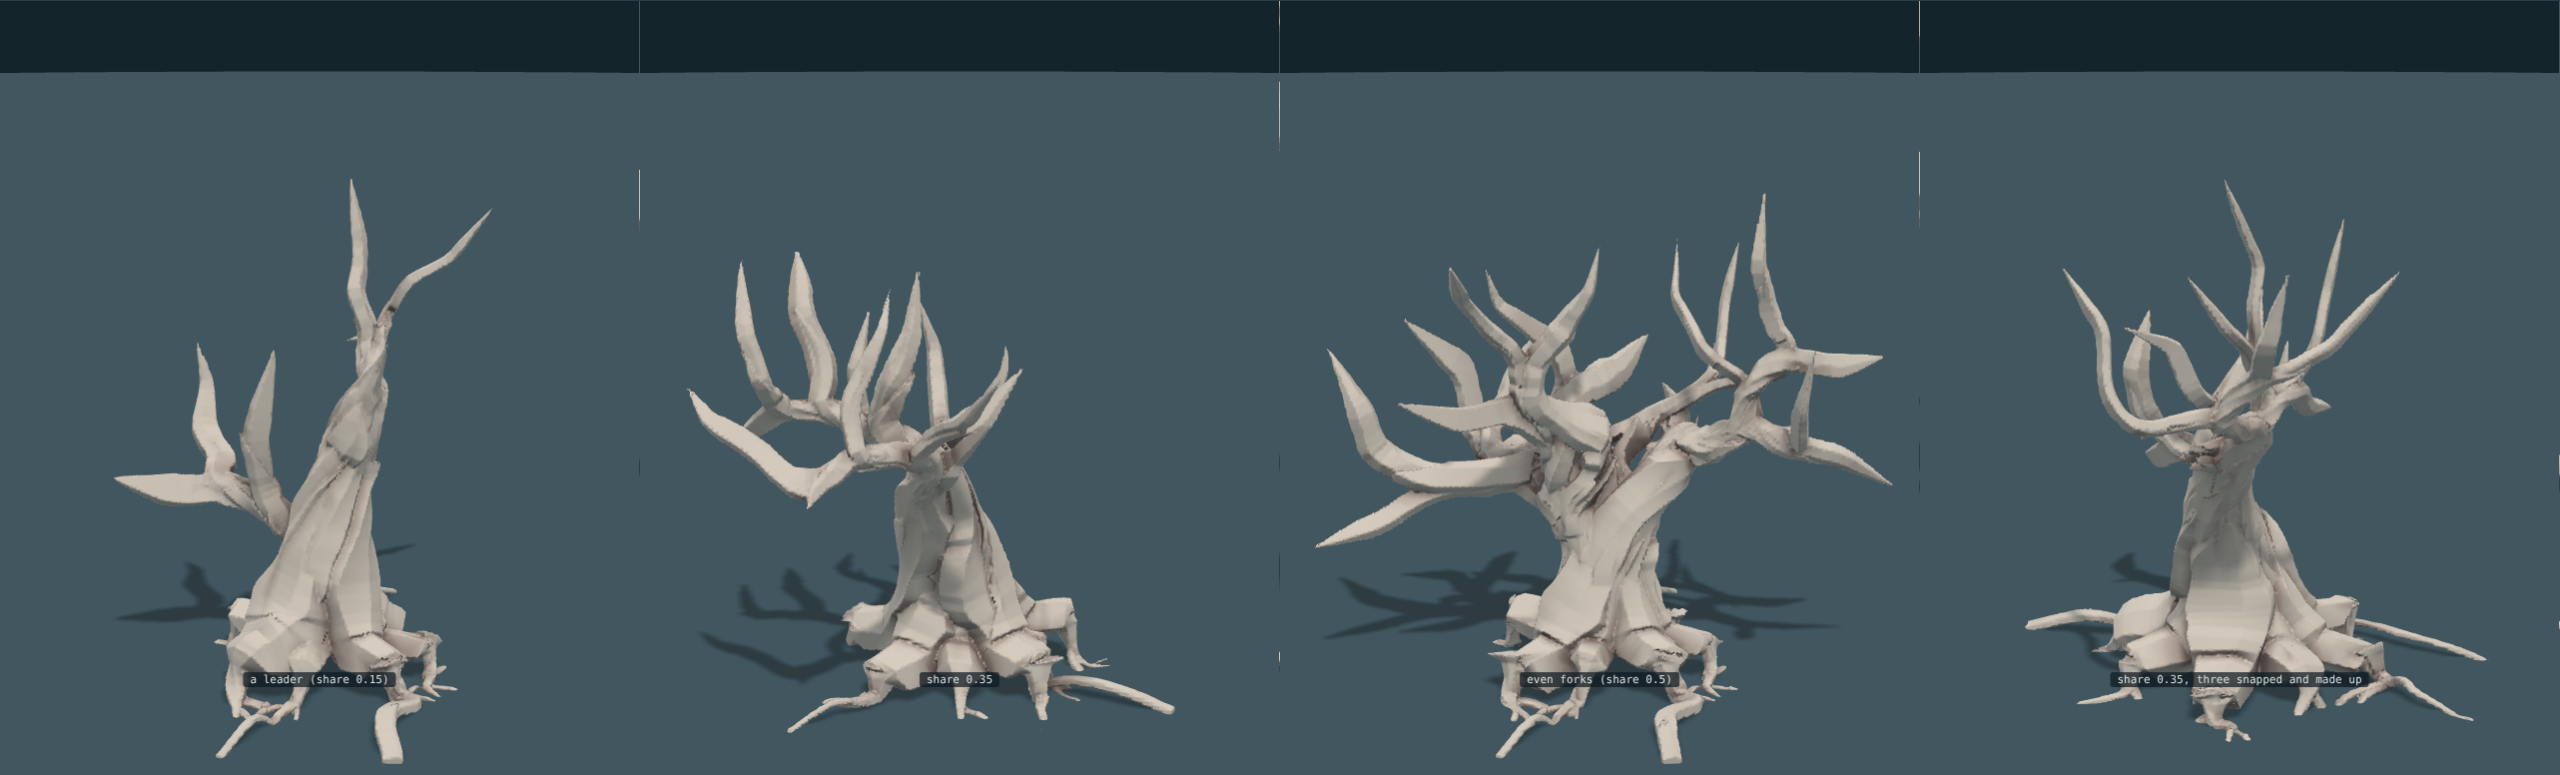
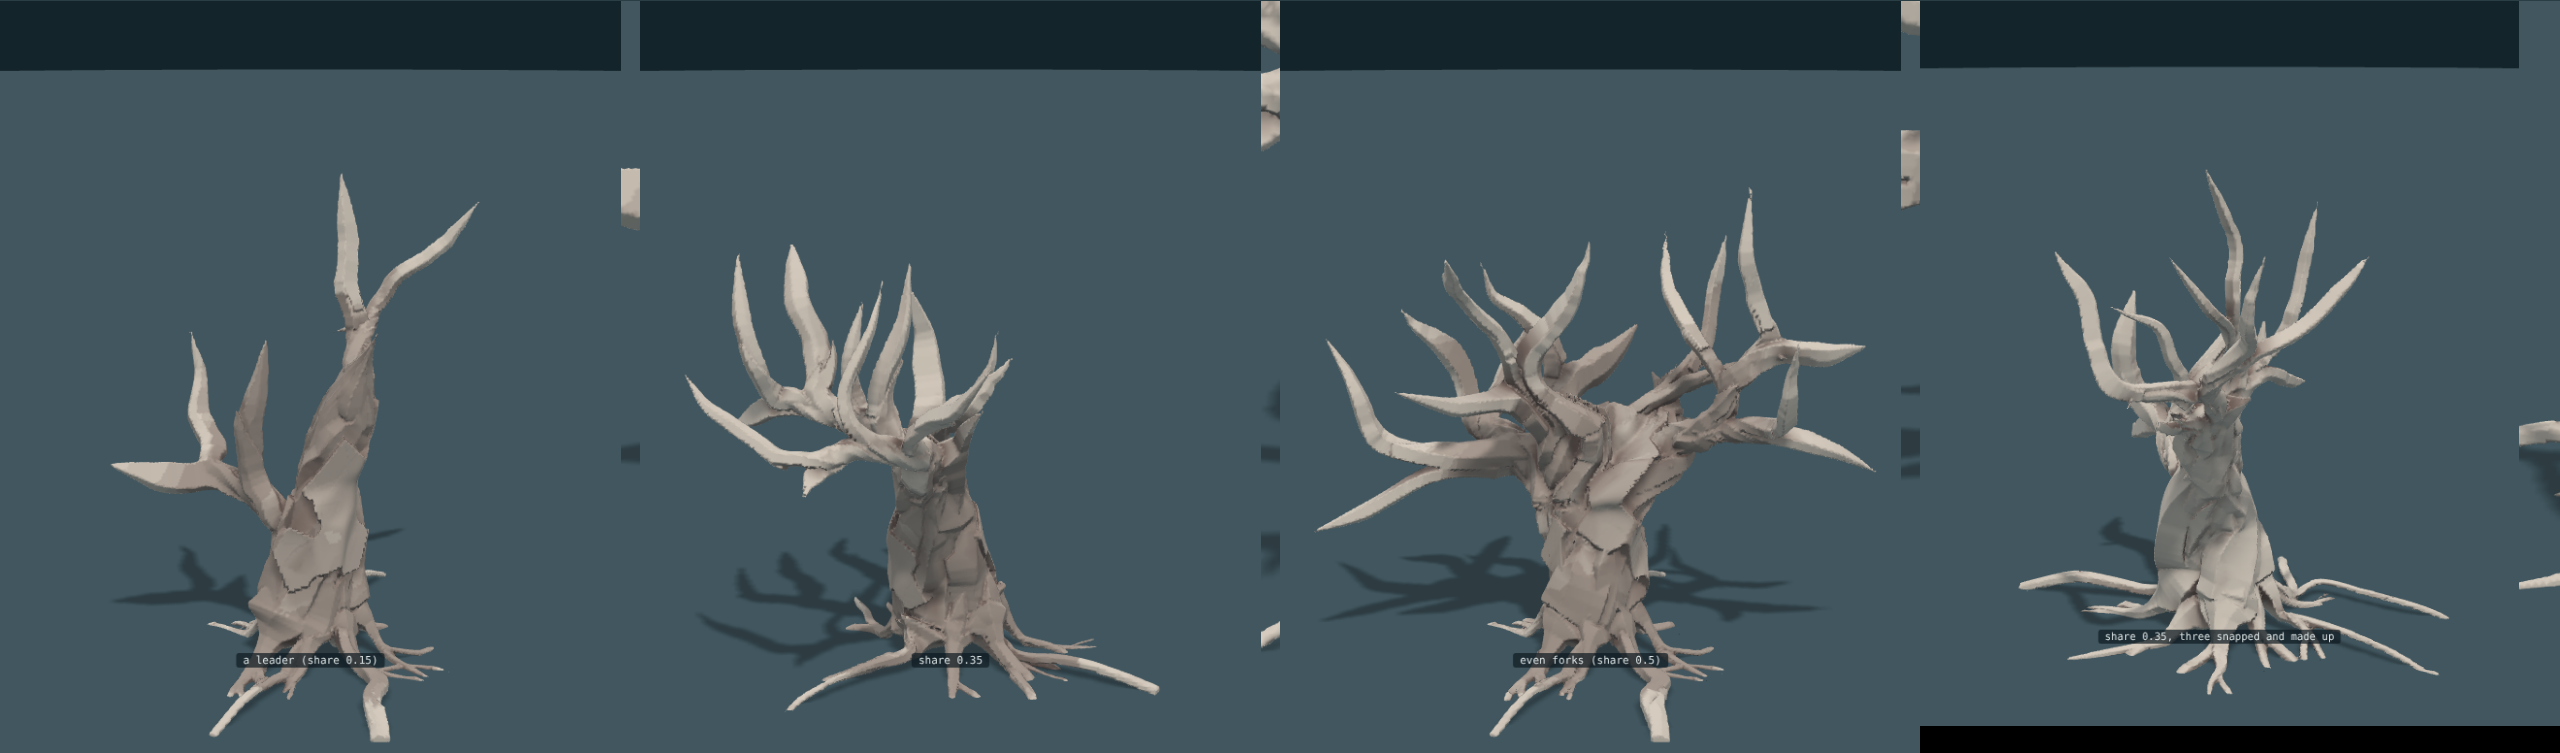
Colour the roots: the thick slabs at the foot were a torn root/trunk join, not roots. Hold a strand's shape in one frame all along it
Claude-Session: https://claude.ai/code/session_0192rgp75jGkttZXf7hEakip

diff --git a/trees.js b/trees.js
@@ -131,7 +131,14 @@
           q = [q[0] + dir[0] * ds, p0[1] + (rad * 0.6 - p0[1]) * sstep(0, 0.8, g) - (dives ? 0.35 * sstep(0.6, 1, g) : 0), q[2] + dir[2] * ds]; rx.push(q); rr.push(rad); rg.push(q); }
       } else { const w = walk(p0, away, rho[0], len, dives, 1); for (let e = 0; e < w.rx.length; e++) { rx.push(w.rx[e]); rg.push(w.rx[e]); rr.push(w.rr[e]); rootPts.push(w.rx[e]); } Kr = rx.length; }
       s.root = Kr; s.K = Kr + X.length; const all = rx.reverse().concat(X), goals = rg.reverse().concat(goal);
-      s.X = Float64Array.from(all.flat()); s.goal = Float64Array.from(goals.flat()); s.rho = Float64Array.from(rr.reverse().concat(rho)); s.hold = Float64Array.from(Array.from({ length: Kr }, (_, k) => (k < Kr * 0.45 ? 0.2 : 0)).concat(hold));   // anchored at the far end of its root, and nowhere else
+      s.X = Float64Array.from(all.flat()); s.goal = Float64Array.from(goals.flat()); s.rho = Float64Array.from(rr.reverse().concat(rho));
+      // The shape a strand holds against tension is written in one frame all along it. A root's goal is the places
+      // it was walked to; the trunk's is the bundle's centre line, which the strand stands off from. Read as one
+      // frame, that step is a stretch, and the tension pulled the two apart: the join opened to four times a step,
+      // and the piece bridging it was drawn as a slab as thick as the trunk, lying out where the root should be.
+      // So the root's held shape is its own line moved to meet the trunk's without a step.
+      if (G) { const off = [0, 1, 2].map((q) => s.X[Kr * 3 + q] - s.goal[Kr * 3 + q]); s.set = Float64Array.from(s.goal);
+        for (let k = 0; k < Kr; k++) for (let q = 0; q < 3; q++) s.set[k * 3 + q] = s.goal[k * 3 + q] - off[q]; } s.hold = Float64Array.from(Array.from({ length: Kr }, (_, k) => (k < Kr * 0.45 ? 0.2 : 0)).concat(hold));   // anchored at the far end of its root, and nowhere else
       s.limbAt = fi; s.bend = P.stiff * Math.min(1.6, s.fat * s.fat);
       if (G) s.bend = Math.min(s.bend, 0.055);   // (with a long anchored root, stiffer than this and the settling runs away: taut, stiff and held together must stay under what one pass can undo)
     }
@@ -252,8 +259,9 @@
         // set: wood keeps the shape it grew in. A strand is then taut and stiff about its line, corners and all, and not
         // about a straight one: what is pulled smooth is how far it lies from its line, so a corner in the line stays a corner.
         // (A walked root keeps its shape wholly. Left even a little taut about a straight line, its windings are drawn out flat between the foot and its far end.)
-        const G = s.goal, w0 = s.child ? 0 : P.set, walked = !!P.ground && !s.child;
-        for (let k = 0; k < K; k++) { const w = walked && k < s.root ? 1 : w0; for (let q = 0; q < 3; q++) { const p = X[k * 3 + q]; let v = s.hold[k] * (G[k * 3 + q] - p);
+        const G = s.set || s.goal, w0 = s.child ? 0 : P.set, walked = !!s.set;
+        for (let k = 0; k < K; k++) { const w = walked ? w0 + (1 - w0) * Math.max(0, Math.min(1, 1 - (k - s.root) / 8)) : w0;   // (a walked root holds its own shape wholly; the trunk eases back to `set` over a few steps above it)
+          for (let q = 0; q < 3; q++) { const p = X[k * 3 + q]; let v = s.hold[k] * (s.goal[k * 3 + q] - p);
           if (k > 1 && k < K - 2) { const a = X[(k - 2) * 3 + q] - w * G[(k - 2) * 3 + q], b = X[(k - 1) * 3 + q] - w * G[(k - 1) * 3 + q], c = p - w * G[k * 3 + q], d = X[(k + 1) * 3 + q] - w * G[(k + 1) * 3 + q], e = X[(k + 2) * 3 + q] - w * G[(k + 2) * 3 + q]; v += P.taut * ((b + d) / 2 - c) - s.bend * (a - 4 * b + 6 * c - 4 * d + e); } m[k * 3 + q] = v; } }
         for (let q = 0; q < K * 3; q++) X[q] += m[q]; });
       // stiffness by girth (lmax): a strand leaves the tree's line only gradually, over a stretch that rises with

diff --git a/sketchbook11.html b/sketchbook11.html
@@ -20,7 +20,7 @@ select:focus-visible { outline: 2px solid var(--pick); outline-offset: 1px; }
   <label>shape <select id="which" aria-label="Which shape to show"><option value="-1">the whole page</option></select></label>
   <label>show <select id="cut" aria-label="How to show it"><option value="none">whole</option><option value="half">near half removed</option><option value="slice">thin slice</option></select></label>
   <label><input id="tint" type="checkbox"> colour by layer</label>
-  <span id="key" hidden style="font: 11.5px var(--mono); color: var(--dim)"><b style="color:#d8d2c6">strands</b> · <b style="color:#e6c36a">torn parts</b> · <b style="color:#e08ac0">slivers and shell</b> · <b style="color:#6f9fe0">bark</b> · <b style="color:#86c98f">scar</b> · <b style="color:#8d9aa0">ground</b></span>
+  <span id="key" hidden style="font: 11.5px var(--mono); color: var(--dim)"><b style="color:#d8d2c6">strands</b> · <b style="color:#e6c36a">torn parts</b> · <b style="color:#e08ac0">slivers and shell</b> · <b style="color:#6f9fe0">bark</b> · <b style="color:#86c98f">scar</b> · <b style="color:#c0553a">root</b> · <b style="color:#e09a6a">root of a root</b> · <b style="color:#8d9aa0">ground</b></span>
   <p>A sketchbook page: quick, rough, thrown away if nothing sticks. Sketches appear one at a time. Drag to turn, scroll to zoom.</p>
 </div>
 <div id="stage"><canvas id="view" aria-label="Sculpted solid shapes"></canvas><div id="tags"></div></div>
@@ -50,7 +50,7 @@ const clay = new T.Color(0xe7e0d4).convertSRGBToLinear(), deep = new T.Color(0x9
 const shapes = [], orbMat = new T.MeshStandardMaterial({ color: new T.Color(0xfff6e0).convertSRGBToLinear(), emissive: new T.Color(0xffe9b8).convertSRGBToLinear(), emissiveIntensity: 0.85, roughness: 0.6 });
 // each shape takes about a second to mesh, so they are built one at a time and appear as they finish
 // clay by default; or each layer in its own colour, to see which layer is doing what
-const LAYER = [0xd8d2c6, 0xe6c36a, 0xe08ac0, 0x6f9fe0, 0x86c98f, 0x8d9aa0].map((c) => new T.Color(c).convertSRGBToLinear());
+const LAYER = [0xd8d2c6, 0xe6c36a, 0xe08ac0, 0x6f9fe0, 0x86c98f, 0x8d9aa0, 0xc0553a, 0xe09a6a].map((c) => new T.Color(c).convertSRGBToLinear());
 const ROCK = new T.Color(0x9aa6ab).convertSRGBToLinear();   // the ground is not the tree: a cooler, darker clay
 function paint(sh) { const col = sh.mesh.geometry.attributes.color.array, on = $('tint').checked && sh.layer;
   for (let q = 0; q < sh.tone.length; q++) { const k = Math.pow(Math.min(1, Math.max(0, sh.tone[q])), 1.3), l = 0.36 + 0.64 * k, c = on ? LAYER[sh.layer[q]] : sh.layer && sh.layer[q] === 5 ? ROCK : clay; col[q * 3] = (deep.r + (c.r - deep.r) * k) * l; col[q * 3 + 1] = (deep.g + (c.g - deep.g) * k) * l; col[q * 3 + 2] = (deep.b + (c.b - deep.b) * k) * l; }

diff --git a/sketchbook10.html b/sketchbook10.html
@@ -20,7 +20,7 @@ select:focus-visible { outline: 2px solid var(--pick); outline-offset: 1px; }
   <label>shape <select id="which" aria-label="Which shape to show"><option value="-1">the whole page</option></select></label>
   <label>show <select id="cut" aria-label="How to show it"><option value="none">whole</option><option value="half">near half removed</option><option value="slice">thin slice</option></select></label>
   <label><input id="tint" type="checkbox"> colour by layer</label>
-  <span id="key" hidden style="font: 11.5px var(--mono); color: var(--dim)"><b style="color:#d8d2c6">strands</b> · <b style="color:#e6c36a">torn parts</b> · <b style="color:#e08ac0">slivers and shell</b> · <b style="color:#6f9fe0">bark</b> · <b style="color:#86c98f">scar</b></span>
+  <span id="key" hidden style="font: 11.5px var(--mono); color: var(--dim)"><b style="color:#d8d2c6">strands</b> · <b style="color:#e6c36a">torn parts</b> · <b style="color:#e08ac0">slivers and shell</b> · <b style="color:#6f9fe0">bark</b> · <b style="color:#86c98f">scar</b> · <b style="color:#c0553a">root</b> · <b style="color:#e09a6a">root of a root</b></span>
   <p>A sketchbook page: quick, rough, thrown away if nothing sticks. Sketches appear one at a time. Drag to turn, scroll to zoom.</p>
 </div>
 <div id="stage"><canvas id="view" aria-label="Sculpted solid shapes"></canvas><div id="tags"></div></div>
@@ -50,7 +50,7 @@ const clay = new T.Color(0xe7e0d4).convertSRGBToLinear(), deep = new T.Color(0x9
 const shapes = [], orbMat = new T.MeshStandardMaterial({ color: new T.Color(0xfff6e0).convertSRGBToLinear(), emissive: new T.Color(0xffe9b8).convertSRGBToLinear(), emissiveIntensity: 0.85, roughness: 0.6 });
 // each shape takes about a second to mesh, so they are built one at a time and appear as they finish
 // clay by default; or each layer in its own colour, to see which layer is doing what
-const LAYER = [0xd8d2c6, 0xe6c36a, 0xe08ac0, 0x6f9fe0, 0x86c98f].map((c) => new T.Color(c).convertSRGBToLinear());
+const LAYER = [0xd8d2c6, 0xe6c36a, 0xe08ac0, 0x6f9fe0, 0x86c98f, 0x8d9aa0, 0xc0553a, 0xe09a6a].map((c) => new T.Color(c).convertSRGBToLinear());
 function paint(sh) { const col = sh.mesh.geometry.attributes.color.array, on = $('tint').checked && sh.layer;
   for (let q = 0; q < sh.tone.length; q++) { const k = Math.pow(Math.min(1, Math.max(0, sh.tone[q])), 1.3), l = 0.36 + 0.64 * k, c = on ? LAYER[sh.layer[q]] : clay; col[q * 3] = (deep.r + (c.r - deep.r) * k) * l; col[q * 3 + 1] = (deep.g + (c.g - deep.g) * k) * l; col[q * 3 + 2] = (deep.b + (c.b - deep.b) * k) * l; }
   sh.mesh.geometry.attributes.color.needsUpdate = true; }

diff --git a/sketchbook9.html b/sketchbook9.html
@@ -20,7 +20,7 @@ select:focus-visible { outline: 2px solid var(--pick); outline-offset: 1px; }
   <label>shape <select id="which" aria-label="Which shape to show"><option value="-1">the whole page</option></select></label>
   <label>show <select id="cut" aria-label="How to show it"><option value="none">whole</option><option value="half">near half removed</option><option value="slice">thin slice</option></select></label>
   <label><input id="tint" type="checkbox"> colour by layer</label>
-  <span id="key" hidden style="font: 11.5px var(--mono); color: var(--dim)"><b style="color:#d8d2c6">strands</b> · <b style="color:#e6c36a">torn parts</b> · <b style="color:#e08ac0">slivers and shell</b> · <b style="color:#6f9fe0">bark</b></span>
+  <span id="key" hidden style="font: 11.5px var(--mono); color: var(--dim)"><b style="color:#d8d2c6">strands</b> · <b style="color:#e6c36a">torn parts</b> · <b style="color:#e08ac0">slivers and shell</b> · <b style="color:#6f9fe0">bark</b> · <b style="color:#c0553a">root</b> · <b style="color:#e09a6a">root of a root</b></span>
   <p>A sketchbook page: quick, rough, thrown away if nothing sticks. Sketches appear one at a time. Drag to turn, scroll to zoom.</p>
 </div>
 <div id="stage"><canvas id="view" aria-label="Sculpted solid shapes"></canvas><div id="tags"></div></div>
@@ -50,7 +50,7 @@ const clay = new T.Color(0xe7e0d4).convertSRGBToLinear(), deep = new T.Color(0x9
 const shapes = [], orbMat = new T.MeshStandardMaterial({ color: new T.Color(0xfff6e0).convertSRGBToLinear(), emissive: new T.Color(0xffe9b8).convertSRGBToLinear(), emissiveIntensity: 0.85, roughness: 0.6 });
 // each shape takes about a second to mesh, so they are built one at a time and appear as they finish
 // clay by default; or each layer in its own colour, to see which layer is doing what
-const LAYER = [0xd8d2c6, 0xe6c36a, 0xe08ac0, 0x6f9fe0].map((c) => new T.Color(c).convertSRGBToLinear());
+const LAYER = [0xd8d2c6, 0xe6c36a, 0xe08ac0, 0x6f9fe0, 0x86c98f, 0x8d9aa0, 0xc0553a, 0xe09a6a].map((c) => new T.Color(c).convertSRGBToLinear());
 function paint(sh) { const col = sh.mesh.geometry.attributes.color.array, on = $('tint').checked && sh.layer;
   for (let q = 0; q < sh.tone.length; q++) { const k = Math.pow(Math.min(1, Math.max(0, sh.tone[q])), 1.3), l = 0.36 + 0.64 * k, c = on ? LAYER[sh.layer[q]] : clay; col[q * 3] = (deep.r + (c.r - deep.r) * k) * l; col[q * 3 + 1] = (deep.g + (c.g - deep.g) * k) * l; col[q * 3 + 2] = (deep.b + (c.b - deep.b) * k) * l; }
   sh.mesh.geometry.attributes.color.needsUpdate = true; }

diff --git a/sketch/page7.js b/sketch/page7.js
@@ -98,7 +98,7 @@
         { const dsl = H(B[0] - at(s, k1 - 1)[0], B[1] - at(s, k1 - 1)[1], B[2] - at(s, k1 - 1)[2]) || 0.035, cutLen = ending === 'point' ? 0.3 * n * dsl : (end.skew ? 2 * Math.abs(end.skew) * w1 : 0) + (end.step ? end.step.a : 0); backBy = clamp(Math.ceil(cutLen / dsl) + 2, 3, Math.max(3, n - 2)); }
         // a part that has torn from another is thickest on its far side and thins to a lip toward the tear
         const mid = (k0 + k1) >> 1, inn = s.inner && s.inner[mid], sg = inn ? dot(inn, unit(cross(tan(s, mid), s.O[mid]))) : 0, torn = Math.abs(sg) > 0.4 ? Math.sign(sg) : 0, e1 = 0.2 + 0.5 * r(), e2 = 0.2 + 0.5 * r(), rd = clamp(ridge0 + 0.4 * (r() - 0.5), -0.6, 0.6);
-        all.push(Object.assign(shard(Object.assign({ C, O, W, Hh, D, deep: Math.max(...D), seed: 1 + Math.floor(r() * 1e6), wiggle: 1, ridge: torn ? -0.4 * torn : rd, eL: torn < 0 ? 0.3 : torn > 0 ? 0.55 : e1, eR: torn > 0 ? 0.3 : torn < 0 ? 0.55 : e2, feather: torn, featherAmt: 0.78 }, s.thread ? { skew: 0 } : end)), { layer: fine || torn || (s.gap && s.gap[mid] > 0) ? 1 : 0 }));
+        all.push(Object.assign(shard(Object.assign({ C, O, W, Hh, D, deep: Math.max(...D), seed: 1 + Math.floor(r() * 1e6), wiggle: 1, ridge: torn ? -0.4 * torn : rd, eL: torn < 0 ? 0.3 : torn > 0 ? 0.55 : e1, eR: torn > 0 ? 0.3 : torn < 0 ? 0.55 : e2, feather: torn, featherAmt: 0.78 }, s.thread ? { skew: 0 } : end)), { layer: k1 <= s.root ? (s.rootOf >= 0 ? 7 : 6) : fine || torn || (s.gap && s.gap[mid] > 0) ? 1 : 0 }));   // 6, 7: root, and root that parted off a root
         count[fine ? 'fine' : 'bands'] = (count[fine ? 'fine' : 'bands'] || 0) + 1; k = k1; first = false;
       }
     }

diff --git a/LOG.md b/LOG.md
@@ -3108,3 +3108,58 @@ Wrong, or not there:
 - The cleft tree has little to grip and comes out sparse.
 - `grip`, `collar` and `flare` are three numbers set by eye against one
   judgement. Nothing derives them, and they are not independent.
+
+## The thick roots were not roots: a torn join
+
+Said: still way too thick, way; clearly a problem balancing the start and
+the taper; colour the roots to see where I believe they start.
+
+Colouring them answered it in one look. Roots are now tagged with a layer
+of their own (6, and 7 for a root that parted off a root) and the
+sketchbooks colour them. In `sketch/page9-roots-coloured-fault.png` the
+root is the red: thin, short, and beginning well out from the trunk.
+Everything thick between — the heavy slabs splaying from the foot that I
+have been told about four times and have been thinning the wrong thing to
+mend — is **trunk**.
+
+What it was. A strand's root is walked, and its trunk part stands off the
+bundle's centre line. Those are two frames: the root's goal is the places
+it was walked to, the trunk's is the line. The settling holds a strand's
+shape against tension by its distance from its goal, and read across the
+join that step is a stretch. So the tension pulled the two halves apart
+every pass. The join opened to 0.135, four times a step, and the piece
+bridging it was drawn as a slab as thick as the trunk, lying out where
+the root should have been. Measured:
+
+      step across the root/trunk join   0.135   (a step is 0.035)
+      after                             0.042
+
+Mended by writing the held shape in one frame all along a strand: a
+walked root's own line, moved to meet the trunk's without a step. The
+root then runs evenly from the collar out to its tip, and the trunk is a
+column that flares into roots instead of standing on splayed boards.
+
+Three rounds of thinning roots were aimed at this and missed it:
+`grip`, `collar`, `flare`, the halved length. They were not wrong — the
+roots were also too thick and too long — but none of them could have
+fixed it, because the thing complained about was not a root. I should
+have coloured the layers at the first "too thick", not the fourth. The
+tool was already there: the layer tint has been in the viewer since the
+bark work.
+
+Where it stands now (`sketch/page9.png`, `-foot`, `-roots`;
+`sketch/page11.png`, `-other-side`, `-roots`; `runs/021-girth/girth.png`):
+
+      roots crossing a ring, at most    0.11 to 0.13 of the trunk
+      with grip and collar off          0.69
+
+Page 7's four trees unchanged to the last digit (they have no ground, so
+no walked root and no second frame).
+
+Wrong, or not there:
+- At 0.11 of the trunk the roots may now be too slight rather than too
+  heavy: three rounds of thinning were aimed at a fault that was not
+  theirs. `grip` raises them without touching anything else.
+- The trunk's strands pull in tight at the foot now that nothing holds
+  them out. The flare is the roots leaving, not the trunk spreading.
+- A few roots still arc through the air in smooth even loops.
